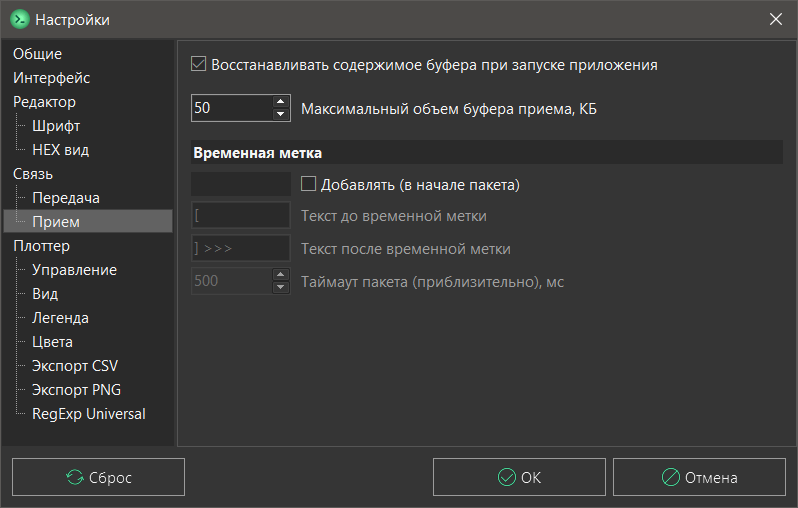
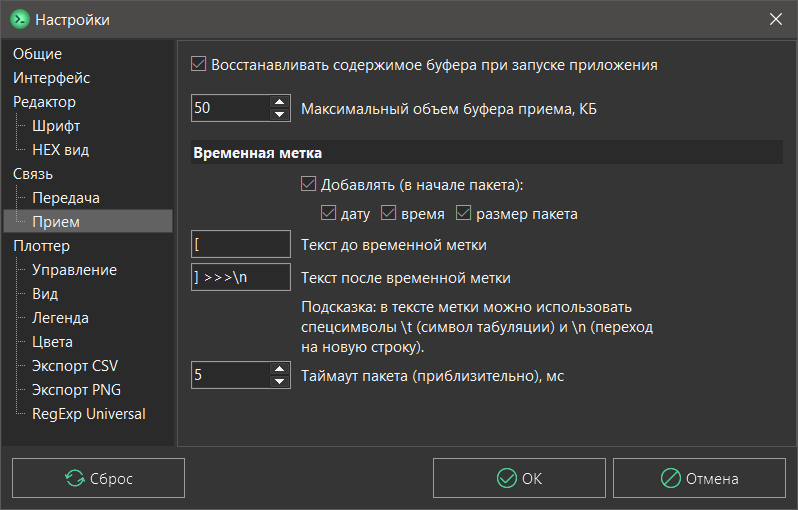
update help (timestamp paragraph)

diff --git a/help/uTerminal-help.md b/help/uTerminal-help.md
@@ -224,6 +224,10 @@
 
 ![](light/screenshots/answer.png)
 
+## Временная метка
+
+Для каждого принятого пакета данных можно добавить метку времени приема. Активировать эту опцию можно в настройках на вкладке `Прием`. Чтобы входящие данные были правильно разбиты на пакеты с метками, важно задать корректное значение таймаута пакета, т. е. интервала времени ожидания приема данных, по истечении которого пакет считается принятым.
+
 ## Прочие опции
 
 Дополнительные настройки приема смотрите в настройках на вкладке `Прием`.
